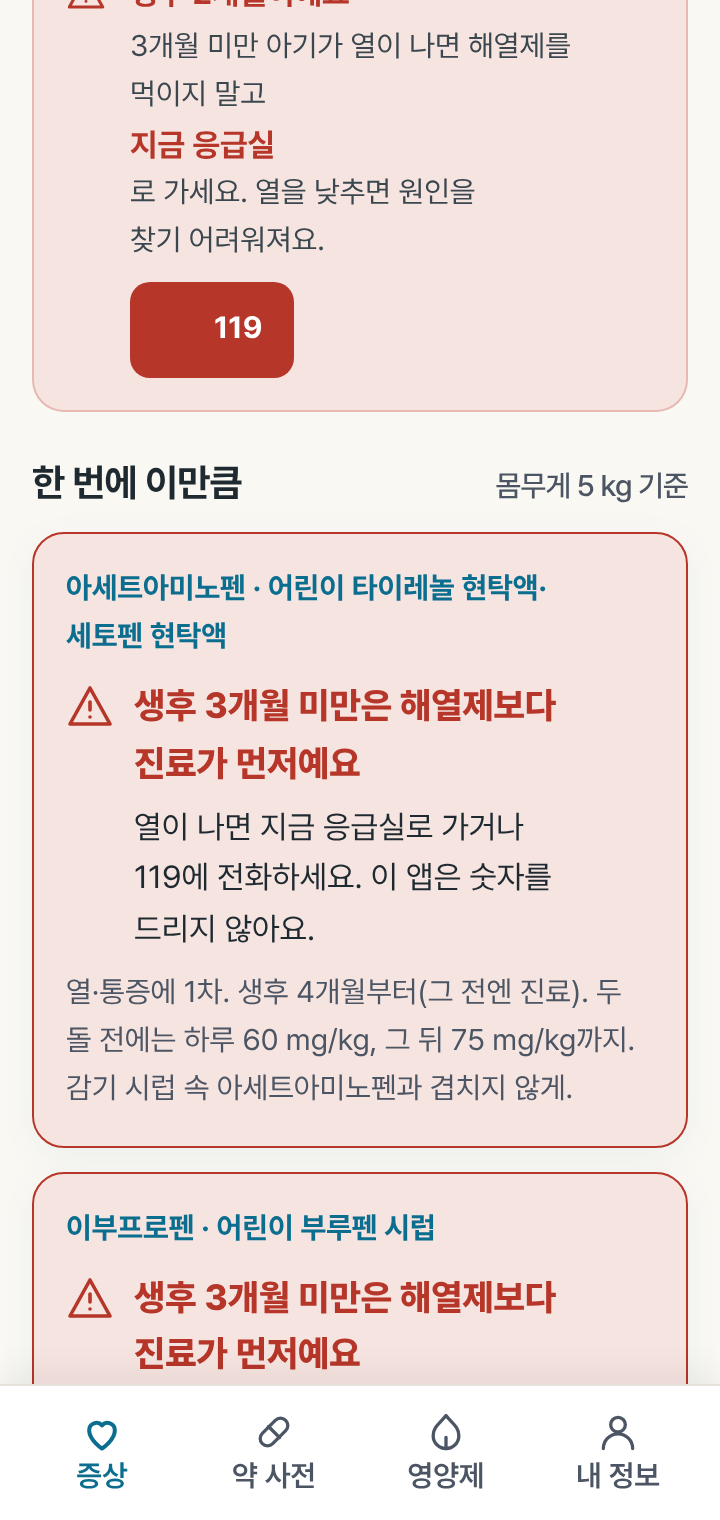
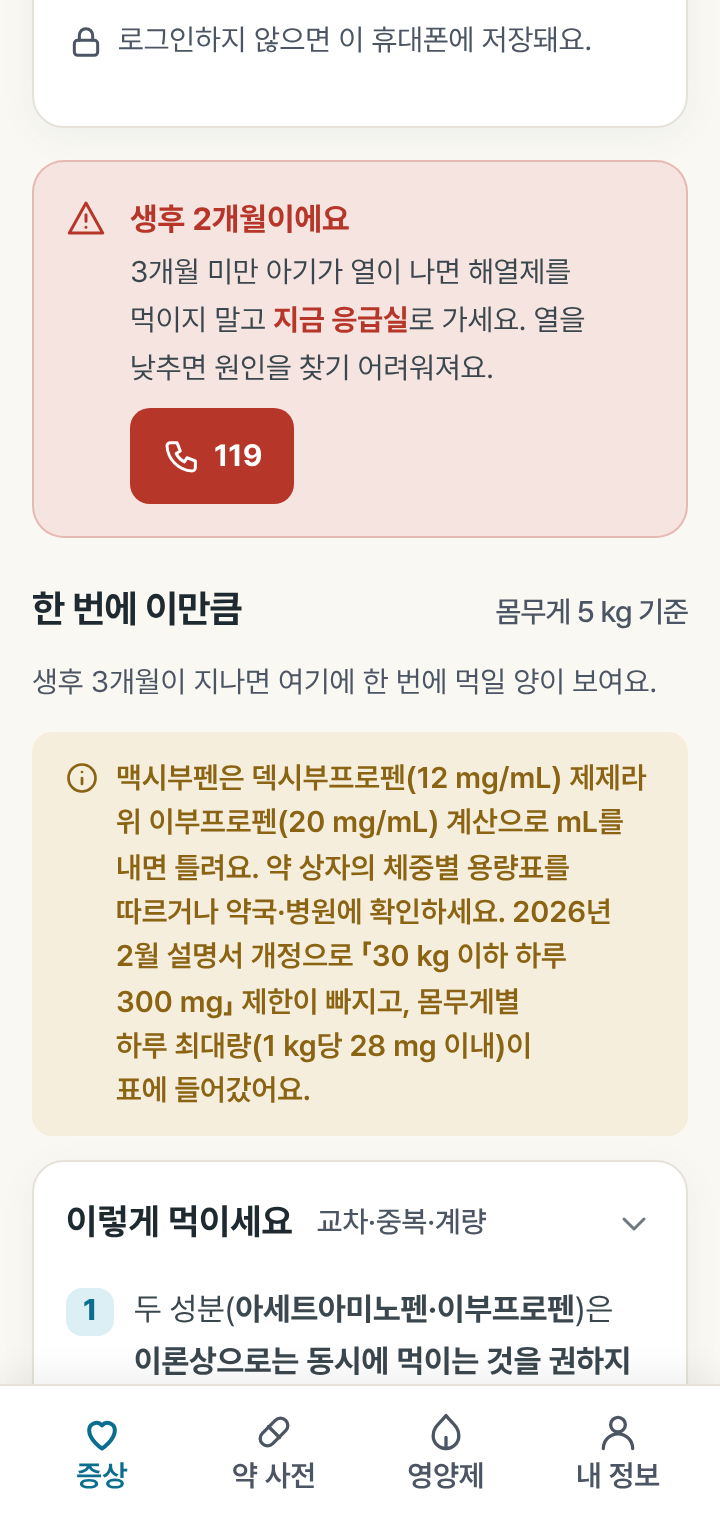
약지도: 해열제 사진 검수 5건 — 굵은 글 한 줄 · 119 단추 아이콘 · 3개월 미만 경고 하나 · 숫자+단위 안 떨어짐 · 3~4개월 먹이기 전 진료
Claude-Session: https://claude.ai/code/session_01EnA5kC7cG7NGAyuaz7gY2Z

diff --git a/yakjido/app-shell.html b/yakjido/app-shell.html
@@ -1134,8 +1134,8 @@ main > .answer + *, main > .sec + .care, main > .card + .care, main > .rx-card +
 .taking .chip button svg.i{width:12px;height:12px}
 /* 경고·레드플래그 */
 .flag{display:flex;gap:var(--s3);padding:var(--s4);border-radius:var(--r-card);background:var(--alert-tint);border:1px solid rgba(182,54,41,.25)}
-.flag svg.i{color:var(--alert);margin-top:2px}
-.flag b{color:var(--alert);display:block;font-size:.9375rem}.flag li b{display:inline;font-size:inherit}
+.flag svg.i{color:var(--alert);margin-top:2px}.call svg.i,.flag .call svg.i{color:var(--on-alert,#fff)!important;margin-top:0}
+.flag b{color:var(--alert);display:block;font-size:.9375rem}.flag li b{display:inline;font-size:inherit}.nu{white-space:nowrap}.flag p b,.young-stop p b{display:inline;font-size:inherit;margin:0}
 .flag p{font-size:.875rem;margin-top:2px}
 .flag ul.plain li::before{background:var(--alert)}
 .note{display:flex;gap:var(--s2);padding:var(--s3) var(--s4);border-radius:var(--r-input);background:var(--caution-tint);color:var(--caution);font-size:.875rem;font-weight:600;line-height:1.5}
@@ -2594,6 +2594,10 @@ function entryOff(){ ENTRY = null; try { sessionStorage.removeItem('yakjido.entr
 /* 11-11 입구 띠·아이 설명 덮어쓰기는 srv.js(entryBandS·symKS) — 첫 화면 예산. srv.js 가 오면 증상·보내기 화면을 다시 그린다 */
 const symK = s => window.symKS ? symKS(s) : s;
 function entryBand(s){ return window.entryBandS ? entryBandS(s) : ''; }
+/* 11-17 Main 「500 / mg 숫자·단위 떨어짐」 — 화면 글(태그 사이 글자)에서 «숫자 + 빈칸 + 단위»를 한 덩이(nowrap)로 묶는다.
+   빈칸은 보통 빈칸 그대로라 화면 읽기·복사·시험 글은 바뀌지 않는다 */
+const NU_RE = /(\d[\d,.]*)( )((?:mg\/dL|mmHg|mg|mL|kg|µg|μg|mcg|IU|cm|mm|g|L|℃|%|국제단위|개월|시간|캡슐|정|포|알|번|가지|회|세|분|일|명|잔)(?![A-Za-z]))/g;
+function numUnit(h){ try { return String(h).replace(/>([^<]+)</g, (m, t) => '>' + t.replace(NU_RE, '<span class="nu">$1 $3</span>') + '<'); } catch (e) { return h; } }
 function route(){
   const h = location.hash.replace(/^#\/?/, '') || 'home';
   const [path, qs] = h.split('?');
@@ -2645,6 +2649,7 @@ function route(){
      전에는 체크할 때마다 맨 위로 튀고 초점이 사라져, 아래쪽 약을 다시 찾아 내려가셔야 했다. */
   const same = path === ROUTE_PREV && !!ROUTE_PREV, keepY = window.scrollY, fsig = same ? focusSig() : null;
   view.classList.toggle('same', same);
+  html = numUnit(html);   /* 11-17 Main — 숫자와 단위가 줄에서 떨어지지 않게(글 전체 규칙) */
   view.innerHTML = panel ? insertPanel(html, panel) : html;
   view.querySelectorAll('.tab[role=tab]').forEach(t => t.setAttribute('aria-selected', t.classList.contains('on')));
   psSwap(view);
@@ -4948,8 +4953,8 @@ function vKids(){
     /* 공통 숫자표 10-26 — 이부프로펜 생후 12개월 전은 설명서 나이 표 밖: 계산하지 않고 의사가 정한 양 */
     if (k === 'ibu' && m != null && m < 12 && !tooYoung) return `<div class="dose-card young"><div class="eyebrow">${esc(D.name)} · ${esc(D.brand)}</div><div class="young-stop">${I.alert}<div><b>돌 전 아기는 의사가 정한 양으로</b><p>생후 6~11개월은 약병 설명서 나이 표에 없어 이 앱이 양을 계산하지 않아요. <b>진료에서 정해 준 양</b>을 따르시고, 열에는 아세트아미노펜이 먼저예요.</p></div></div></div>`;
     if (tooYoung) return `<div class="dose-card young"><div class="eyebrow">${esc(D.name)} · ${esc(D.brand)}</div>
-      <div class="young-stop">${I.alert}<div>${m != null && m < 3 ? `<b>생후 3개월 미만은 해열제보다 진료가 먼저예요</b><p>열이 나면 지금 응급실로 가거나 119에 전화하세요. 이 앱은 숫자를 드리지 않아요.</p></div></div>` : `<b>이 약은 아직 이릅니다</b>
-        <p>${esc(D.name)}${josa(D.name, '은', '는')} 보통 <b>생후 ${D.minMonths}개월 이후</b>부터 씁니다. 그 전에는 <b>임의로 먹이지 마시고 진료를 받으세요.</b></p></div></div>`}
+      <div class="young-stop">${I.alert}<div>${m != null && m < 3 ? `<b>생후 3개월 미만은 해열제보다 진료가 먼저예요</b><p>열이 나면 지금 응급실로 가거나 119에 전화하세요. 이 앱은 숫자를 드리지 않아요.</p></div></div>` : `<b>먹이기 전에 진료가 먼저예요</b>
+        <p>${esc(D.name)}${josa(D.name, '은', '는')} 약 상자 기준 <b>생후 ${D.minMonths}개월부터</b>예요. 지금은 먹이기 전에 소아과에서 먹여도 되는지와 양을 정해 받으세요.</p></div></div>`}
       ${m != null && m < 3 ? '' : `<details class="why-more" style="margin-top:10px"><summary>그래도 숫자를 보시려면${I.chev}</summary>
         <p class="why" style="margin-top:6px">진료에서 「몇 mL 먹여도 되는지」 확인하실 때 참고용이에요. 몸무게 ${w} kg 기준 <b>1회 ${mlLo === mlHi ? mlLo : mlLo + '~' + mlHi} mL</b>(${mlRange(r)[2]}~${mlRange(r)[3]} mg), ${esc(D.gapText)} 간격, 하루 ${D.maxPerDay}회·${r.day} mg까지.
         ${esc(conc.label)} 기준이에요.</p></details>`}
@@ -4989,8 +4994,8 @@ ${k === 'apap' && m != null && m < 24 ? `<p class="small muted" style="margin-to
   </section>
   ${sane ? `<div class="flag" style="margin-top:16px">${I.alert}<div><b>몸무게를 한 번만 확인해 주세요</b><p>${esc(sane)}</p></div></div>` : ''}
   ${m == null && w > 0 ? `<div class="note" style="margin-top:16px">${I.info}<span><b>생년월일을 넣으면 더 정확해요.</b> 이부프로펜은 나이별 설명서 한도가 있어 아래 값보다 줄어들 수 있어요. <b>3개월 미만 발열</b>(해열제보다 진료가 먼저)과 약마다 <b>쓸 수 있는 개월 수</b>까지 함께 봐 드려요.</span></div>` : ''}
-  ${m != null && m < 3 ? `<div class="flag" style="margin-top:16px">${I.alert}<div><b>생후 ${m}개월이에요</b><p>3개월 미만 아기가 열이 나면 해열제를 먹이지 말고 <b>지금 응급실</b>로 가세요. 열을 낮추면 원인을 찾기 어려워져요.</p><a class="call" href="tel:119">${I.alert} 119</a></div></div>` : ''}
-  ${w > 0 ? `<section class="sec"><h2>한 번에 이만큼 <small>몸무게 ${w} kg 기준</small></h2>${m == null && w < 6 ? `<div class="kid-over kid-young" role="note">${I.alert}<span>생후 3개월 안팎일 수 있어요 — 생년월일을 넣어 주세요. 생후 3개월 미만 아기의 열은 해열제보다 지금 응급실이 먼저예요.</span></div>` : ''}${doseCard('apap')}${doseCard('ibu')}<div class="note" style="margin-top:12px">${I.info}<span>${esc(K.dexibuNote || '')}</span></div></section>` : `<section class="sec"><div class="empty"><b>몸무게를 넣으면 바로 계산해 드려요</b>아세트아미노펜·이부프로펜 시럽 mL, 간격, 하루 한도까지.</div></section>`}
+  ${m != null && m < 3 ? `<div class="flag" style="margin-top:16px">${I.alert}<div><b>생후 ${m}개월이에요</b><p>3개월 미만 아기가 열이 나면 해열제를 먹이지 말고 <b>지금 응급실</b>로 가세요. 열을 낮추면 원인을 찾기 어려워져요.</p><a class="call" href="tel:119"><svg class="i" viewBox="0 0 24 24"><path d="M5 4h4l2 5-2.5 1.5a11 11 0 0 0 5 5L15 13l5 2v4a2 2 0 0 1-2 2A16 16 0 0 1 3 6a2 2 0 0 1 2-2"/></svg> 119</a></div></div>` : ''}
+  ${w > 0 ? `<section class="sec"><h2>한 번에 이만큼 <small>몸무게 ${w} kg 기준</small></h2>${m == null && w < 6 ? `<div class="kid-over kid-young" role="note">${I.alert}<span>생후 3개월 안팎일 수 있어요 — 생년월일을 넣어 주세요. 생후 3개월 미만 아기의 열은 해열제보다 지금 응급실이 먼저예요.</span></div>` : ''}${m != null && m < 3 ? `<p class="small muted" style="margin-top:8px">생후 3개월이 지나면 여기에 한 번에 먹일 양이 보여요.</p>` : doseCard('apap') + doseCard('ibu')}<div class="note" style="margin-top:12px">${I.info}<span>${esc(K.dexibuNote || '')}</span></div></section>` : `<section class="sec"><div class="empty"><b>몸무게를 넣으면 바로 계산해 드려요</b>아세트아미노펜·이부프로펜 시럽 mL, 간격, 하루 한도까지.</div></section>`}
   ${acc('이렇게 먹이세요', list(K.rules, 'steps'), '교차·중복·계량', true)}
   <section class="sec"><h2>병원에 가야 할 때</h2>${careCards({ clinic: K.care?.clinic, er: K.care?.er }, true)}</section>
   ${art('kids-dose', 'spot')}

diff --git a/docs/yakjido/sw.js b/docs/yakjido/sw.js
@@ -9,7 +9,7 @@
                        판이 같으면 캐시 그대로, 판이 바뀌면 새로 받아 넣고 옛 판은 지운다(prune).
    판 없는 옛 주소는 «캐시 먼저» — 한 번 받은 것은 즉시 열리고, 뒤에서 조용히 새로 받아 둔다.
    인터넷이 안 되면 어느 캐시에든 있는 사본을 준다(5-01 — 첫 방문 뒤 비행기 모드에서 본문이 안 뜨던 것). */
-const CACHE = 'yakjido-2026-11-18T03:17-1f2012f0';
+const CACHE = 'yakjido-2026-11-18T03:48-767bf22c';
 const DATA = 'yakjido-data-v1';
 /* 기내 모드·바깥 파일 0(10-27) — 글꼴(fonts/)·로그인 프로그램(vendor/)은 배포 묶음 안. 판이 박힌 꾸러미라 내용이 안 바뀌니 «캐시 먼저», 앱 판이 바뀌어도 지우지 않는다(EXT).
    바깥 주소는 하나도 담지 않는다 — 서버 응답(supabase REST)·날씨는 그대로 지나간다(09-22 원칙) */

diff --git a/yakjido/tests/fever.py b/yakjido/tests/fever.py
@@ -32,9 +32,9 @@ with sync_playwright() as p:
     ok(r['nover'] == 0, f"쉽게 보기 한 숫자 ≤ 범위 위 끝 — 넘는 곳 {r['nover']} {r['over']}")
     pg2 = b.new_page(locale='ko-KR', timezone_id='Asia/Seoul'); pg2.add_init_script(SEED + f"localStorage.setItem('yakjido.me.v1',JSON.stringify({{child:{{name:'',birth:'{y}-{mo:02d}-{min(d.day,28):02d}',weight:5}}}}))")
     pg2.goto(URL + '#/kids'); pg2.wait_for_function('!!window.메디나눔해열제', timeout=20000); pg2.wait_for_timeout(800)
-    t = ' '.join(pg2.locator('.dose-card').all_inner_texts())
+    t = pg2.inner_text('#view')
     import re
-    ok('진료가 먼저' in t and not re.search(r'\d+(\.\d)?\s*mL', t), '생후 2개월 — 해열제 칸에 mL 숫자 없이 진료 먼저')
+    ok(pg2.locator('.dose-card').count() == 0 and '3개월이 지나면 여기에' in t and '지금 응급실' in t and not re.search(r'1회\s*\d', t), '생후 2개월 — 용량 칸 없이 위 경고 하나(응급실·119)')
     b.close()
 srv.shutdown()
 print('해열제 숫자:', '흠 ' + str(len(bad)) if bad else '전부 통과')
